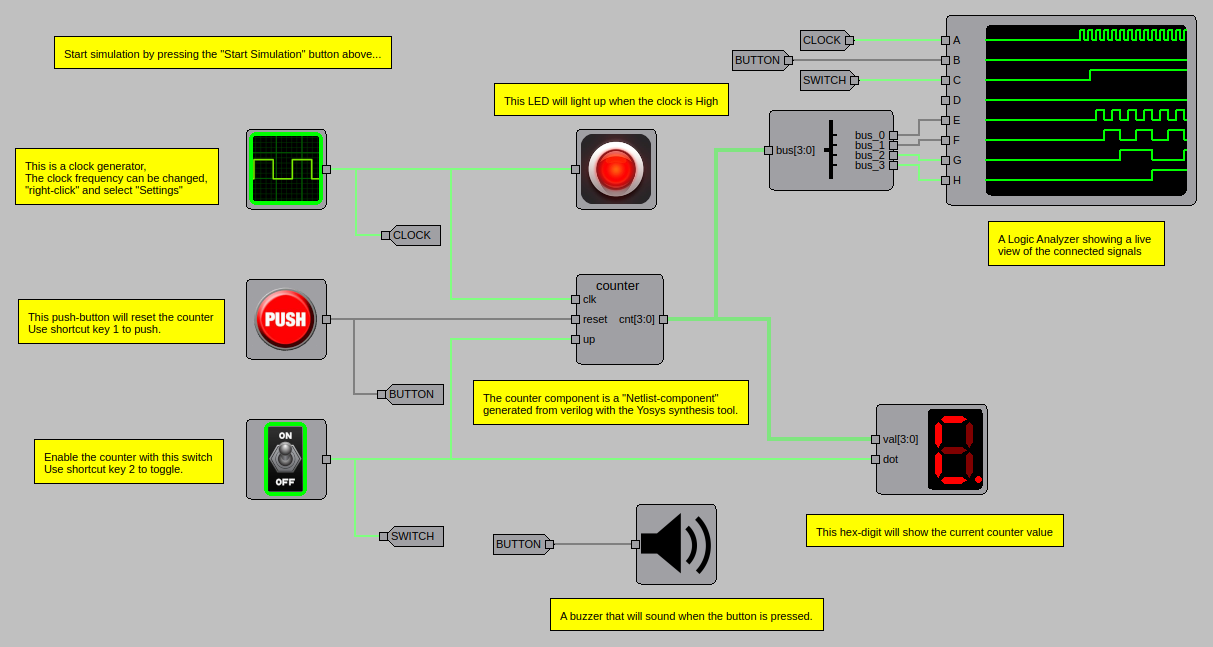
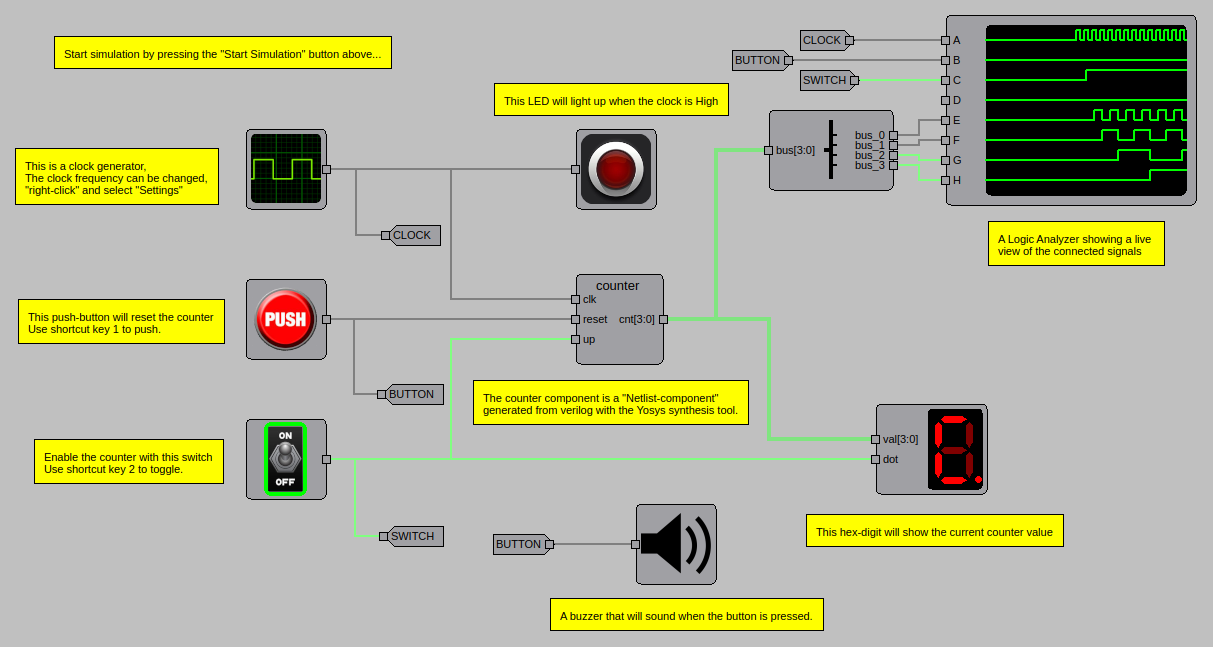
Make the GUI circuit screenshots in the docs reproducible
The script ran the simulation thread for a time measured on the clock,
so the counters showed a different count every time the images were
regenerated, and every regeneration changed the images. The circuits
now run for a fixed simulated time without the thread.

diff --git a/docs/scripts/generate_examples.py b/docs/scripts/generate_examples.py
@@ -755,6 +755,7 @@ def screenshots() -> None:
     from digsim.app.gui import MainWindow
     from digsim.app.gui._circuit_area import CircuitArea
     from digsim.app.model import AppModel
+    from digsim.circuit.components import OnOffSwitch, PushButton
 
     app = QApplication.instance() or QApplication([])
     assert app is not None  # keep the application alive while taking screenshots
@@ -771,6 +772,14 @@ def screenshots() -> None:
         QTimer.singleShot(ms, loop.quit)
         loop.exec()
 
+    def simulate(ms: int) -> None:
+        """
+        Run the simulation for a fixed simulated time, in this thread instead of the
+        simulation thread, so that the screenshots are the same every time
+        """
+        model.objects.circuit.run(ms=ms)
+        model.objects.components.update_callback_objects()
+
     def interact(name: str) -> None:
         """Make each circuit show something interesting before the screenshot"""
         circuit = model.objects.circuit
@@ -778,31 +787,31 @@ def screenshots() -> None:
         if name in ("counter_yosys_netlist", "counter_yosys_verilog", "74162_counter"):
             # Enable counting
             for component in components:
-                if type(component).__name__ == "OnOffSwitch":
-                    model.model_add_event(component.turn_on)
-            spin(2500)
+                if isinstance(component, OnOffSwitch):
+                    component.turn_on()
+            simulate(2500)
         elif name == "shift_register":
             # Shift in a single one
             button = circuit.get_component("PushButton")
-            model.model_add_event(button.push)
-            spin(250)
-            model.model_add_event(button.release)
-            spin(500)
+            assert isinstance(button, PushButton)
+            button.push()
+            simulate(250)
+            button.release()
+            simulate(500)
         elif name == "buzzers":
             # Press the third button (screenshot while pressed)
-            model.model_add_event(circuit.get_component("PushButton_2").push)
-            spin(300)
+            button = circuit.get_component("PushButton_2")
+            assert isinstance(button, PushButton)
+            button.push()
+            simulate(300)
         else:
-            spin(1000)
+            simulate(1000)
 
     with chdir(ROOT):
         for path in sorted((ROOT / "example_circuits").glob("*.circuit")):
             model.load_circuit(str(path.relative_to(ROOT)))
-            spin(300)
-            model.model_start()
-            spin(300)
+            simulate(300)
             interact(path.stem)
-            model.model_stop()
             spin(200)
             # Grab the whole circuit at 1:1 scale, cropped to its components
             for component_object in model.objects.get_list():

diff --git a/CHANGELOG.md b/CHANGELOG.md
@@ -58,6 +58,7 @@
  - Remove the unused Component.delete_all_ports()
  - Bugfix: Circuit.clear() kept the pending events of the removed components
  - Update the GitHub Actions in all workflows to their newest versions, which run on Node 24
+ - The GUI circuit screenshots in the documentation are the same every time they are regenerated
 
 ## v1.3.0
  - Bugfix: Error and close dialogs were not attached to the main window
